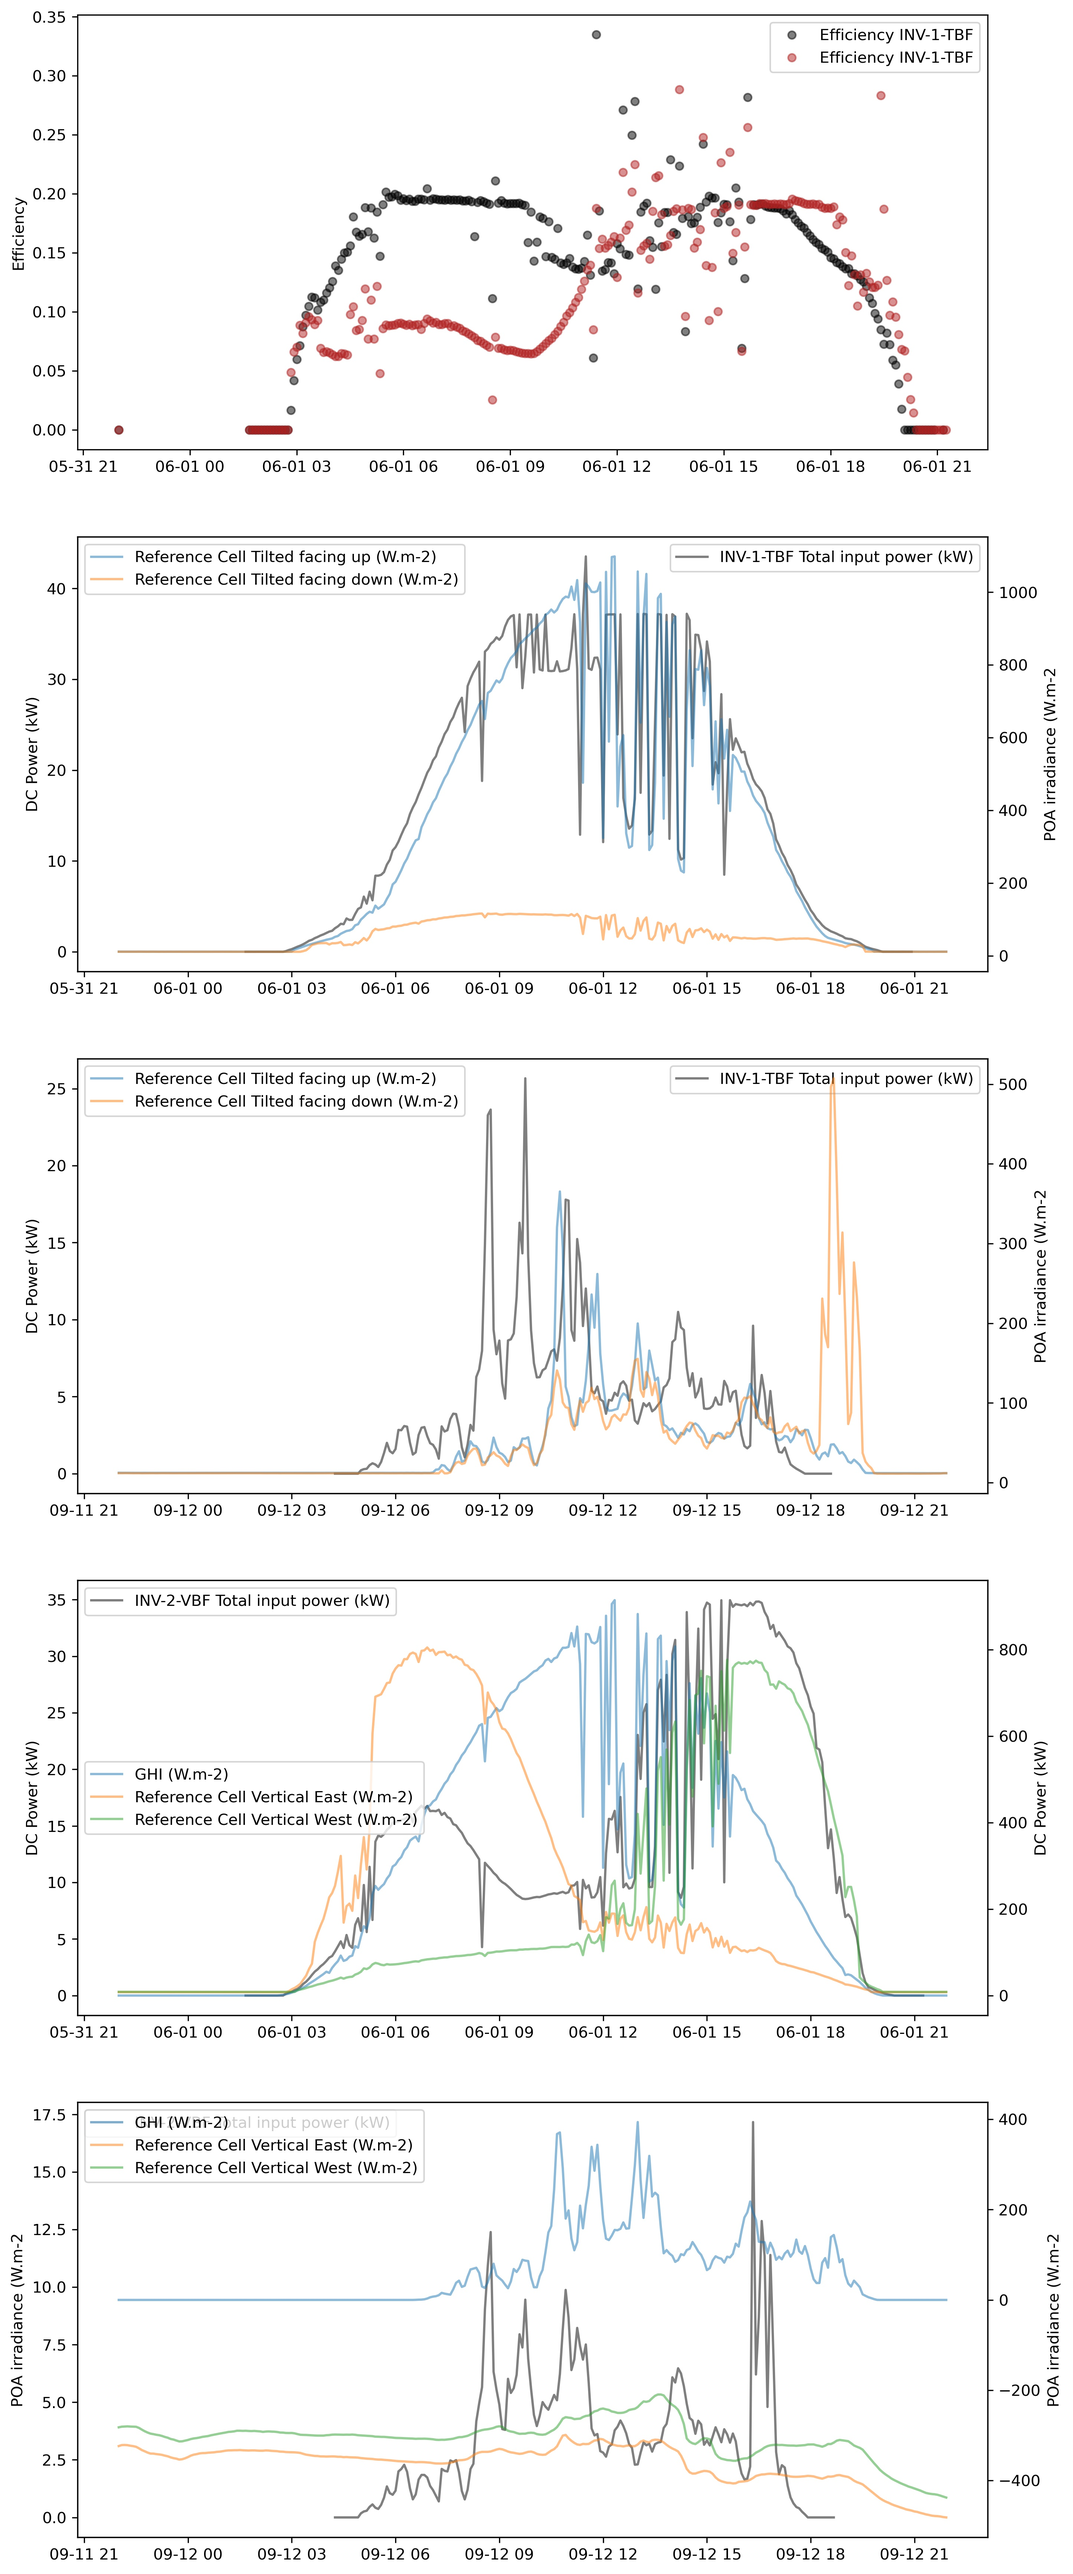
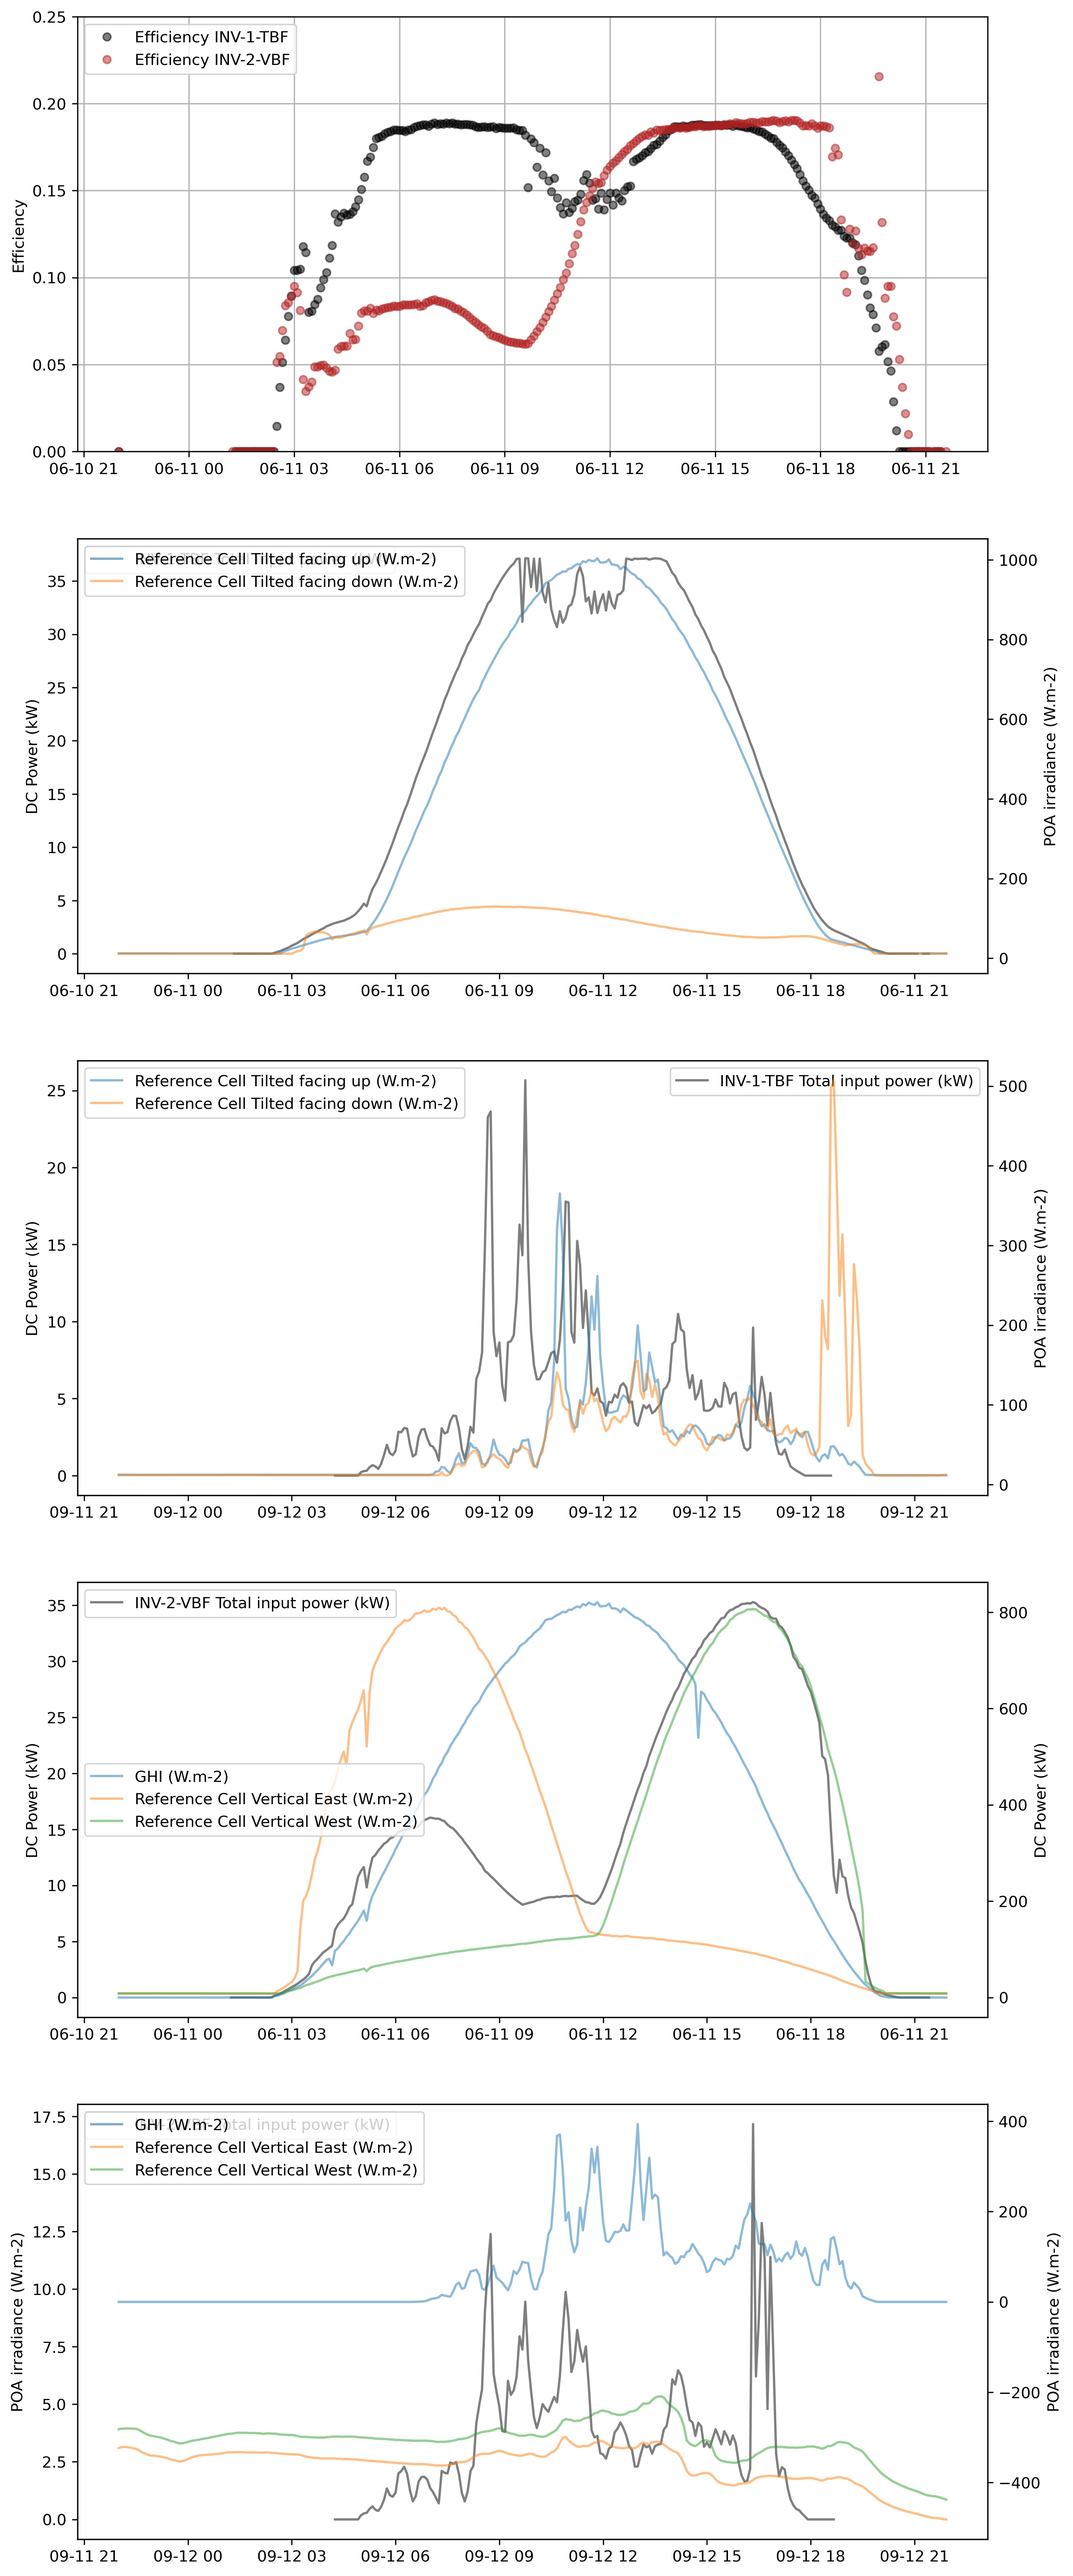
small corrections in figures

diff --git a/efficiency_analysis.py b/efficiency_analysis.py
@@ -10,7 +10,7 @@ import matplotlib.pyplot as plt
 import matplotlib.gridspec as gridspec 
 
 
-start_date2 = '2023-06-01 00:00:00' 
+start_date2 = '2023-06-11 00:00:00' 
 start_date3 = '2023-09-12 00:00:00'
 end_date = '2023-11-30 23:55:00'
 
@@ -74,8 +74,10 @@ ax0.plot(data['Efficiency INV-2-VBF'][time_index_day],
          marker='o',
          markersize=5,
          linewidth=0,
-         label='Efficiency INV-1-TBF')
+         label='Efficiency INV-2-VBF')
 ax0.set_ylabel('Efficiency')
+ax0.grid('--')
+ax0.set_ylim([0, 0.25])
 ax0.legend()
 
 sources = [ 'INV-1-TBF Total input power (kW)',
@@ -134,10 +136,11 @@ for i, source in enumerate(sources_r[2:5]):
     
 ax1.set_ylabel('DC Power (kW)')    
 ax3.set_ylabel('DC Power (kW)') 
-ax2.set_ylabel('POA irradiance (W.m-2') 
-ax4.set_ylabel('POA irradiance (W.m-2') 
+ax2.set_ylabel('POA irradiance (W.m-2)') 
+ax4.set_ylabel('POA irradiance (W.m-2)') 
 ax5.set_ylabel('DC Power (kW)')    
 ax6.set_ylabel('DC Power (kW)') 
-ax7.set_ylabel('POA irradiance (W.m-2') 
-ax8.set_ylabel('POA irradiance (W.m-2')
+ax7.set_ylabel('POA irradiance (W.m-2)') 
+ax8.set_ylabel('POA irradiance (W.m-2)')
+
 plt.savefig('Figures/Efficiency_analysis.jpg', dpi=300, bbox_inches='tight')

diff --git a/radiation_comparison.py b/radiation_comparison.py
@@ -109,4 +109,6 @@ for i,source in enumerate(sources):
     ax3.legend()
     ax2.set_ylabel('W.m-2')
     ax3.set_ylabel('W.m-2')
+    ax2.grid('--')
+    ax3.grid('--')
 plt.savefig('Figures/GHI_analysis.jpg', dpi=300, bbox_inches='tight')
